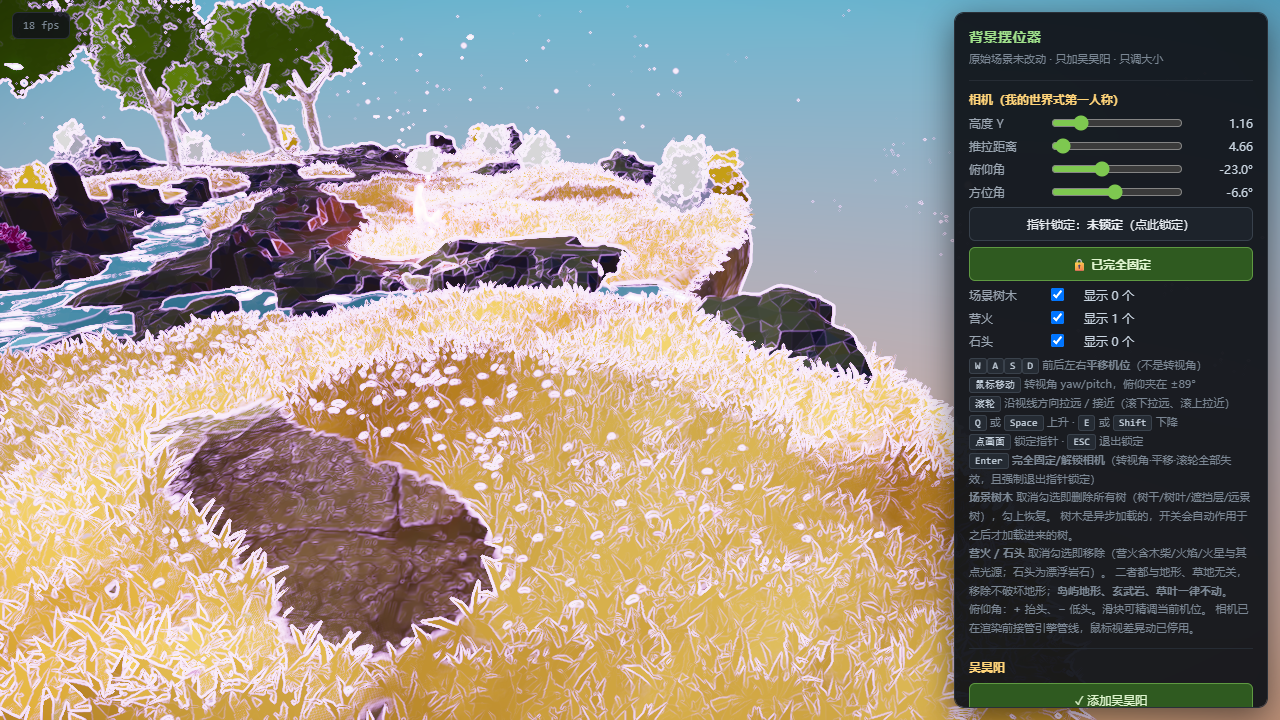
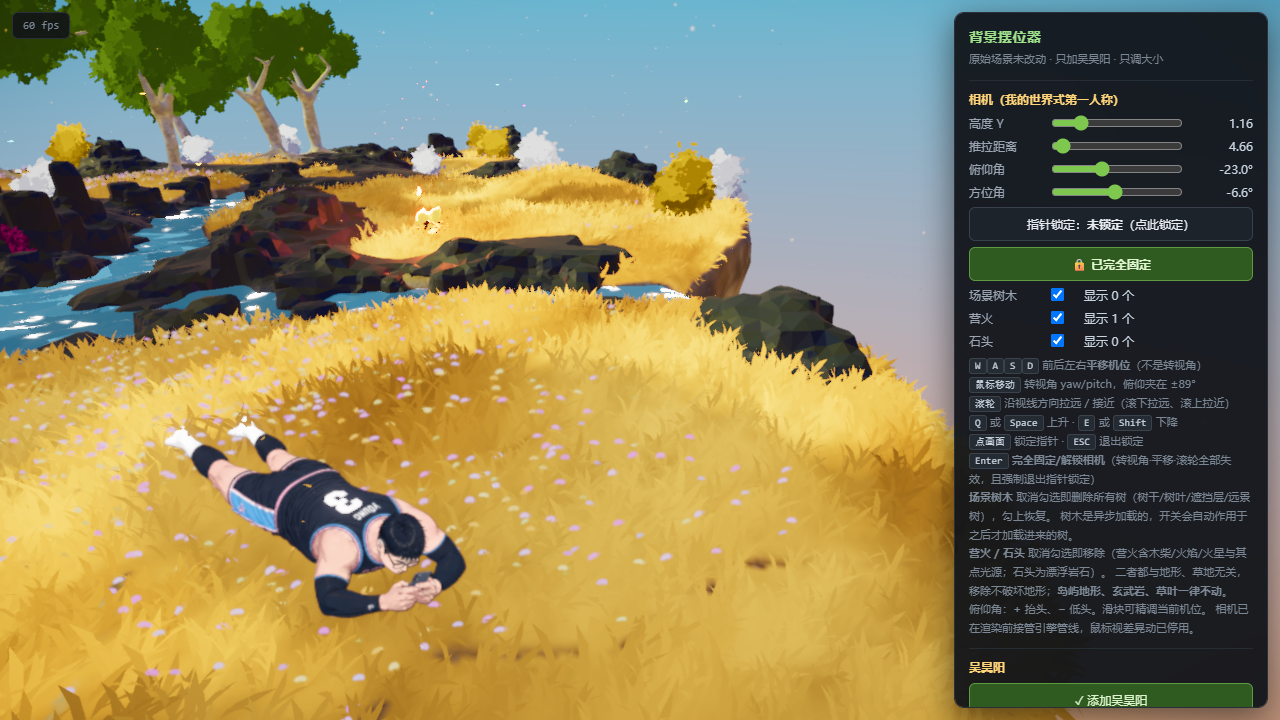
2026.10.20_4

diff --git a/背景实验室/lab-a-base/positioner.html b/背景实验室/lab-a-base/positioner.html
@@ -1277,14 +1277,14 @@ window.__camReady = true;
     //             ⚠ 用户 12:33 否决：这等于把荒地「填」掉了，他要的是**荒地仍是荒地、只是范围小**。
     //             故改回 'erase'；此模式仅保留开关，不再默认启用。
     //  'keepall'= 完全不清草，前后遮挡交给深度测试。
-    var WU_GRASS_MODE = 'erase';
+    var WU_GRASS_MODE = 'hide';
     // ---------- 他周围一圈「清空区」（用户 2026-10-12 要求）----------
     // 「请你将吴昊阳周围的草删掉……这样子就能避免草和吴昊阳接触，从而导致看出来破绽」
     // 单位：米。以他身体占的格子为起点向四周外扩这么多，圈内的草一律清掉。
     // 0.30 时圈太大、看着很突兀（用户反馈「删的太多了」）⇒ 收到 0.10：
     // 草叶离地 0.09~0.17m，被拨弯后水平最多再伸约 0.1m，0.10 足以让草碰不到他。
     // 0 = 旧行为（只擦身下；轮廓外缘留草、下缘还留一条草带，让草从他身侧长出来）。
-    var WU_CLEAR_MARGIN = 0.10;
+    var WU_CLEAR_MARGIN = 0.055;
     function wuCellKey(x, z) { return Math.floor(x / WU_CELL) + ',' + Math.floor(z / WU_CELL); }
     function cellKey(x, z) { return Math.floor(x / CELL) + ',' + Math.floor(z / CELL); }
     var wuRay = null;
@@ -1542,7 +1542,7 @@ window.__camReady = true;
     //
     // WU_GROUND_OFFSET 是唯一旋钮：**调大 ⇒ 更多草被他挡住（他更「压住」草）；调小 ⇒ 更多草画在他身上**。
     // 不能为 0：他的网格比地面粗，必须留余量避免与地面 z-fight。
-    var WU_GROUND_OFFSET = 0.04;
+    var WU_GROUND_OFFSET = 0.010;
     // 材质侧：让他成为**真正的深度实体** —— 写深度 + alpha 裁剪。
     // 不写深度时，排在他之后绘制的透明物件（粒子/蝴蝶/远处植被）会无视他直接覆盖上来。
     var WU_ALPHA_TEST = 0.02;
@@ -1625,6 +1625,7 @@ window.__camReady = true;
           for (var dz = -dzMax; dz <= dzMax; dz++) grown.add((hx + dx) + ',' + (hz + dz));
         }
       }
+      for (var g2 = 0; g2 < hits.length; g2++) grown.delete(hits[g2]);
       return grown;
     }
     // 同 paintZones 的三角形光栅化    // 同 paintZones 的三角形光栅化，但写 0 而不是 255：绿=0 不长草，r/b=0 不要花。
